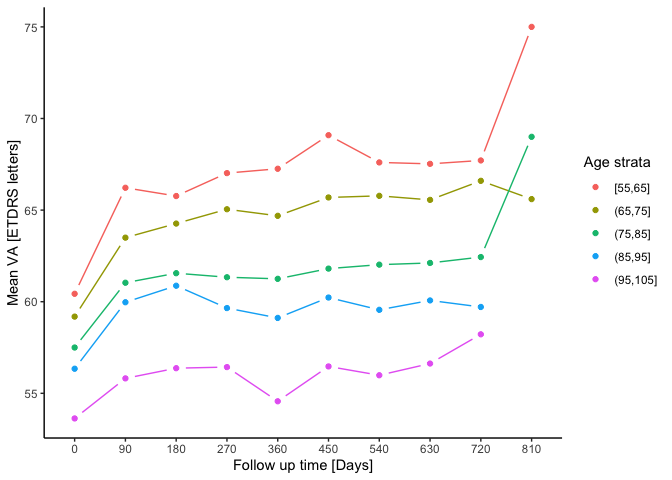
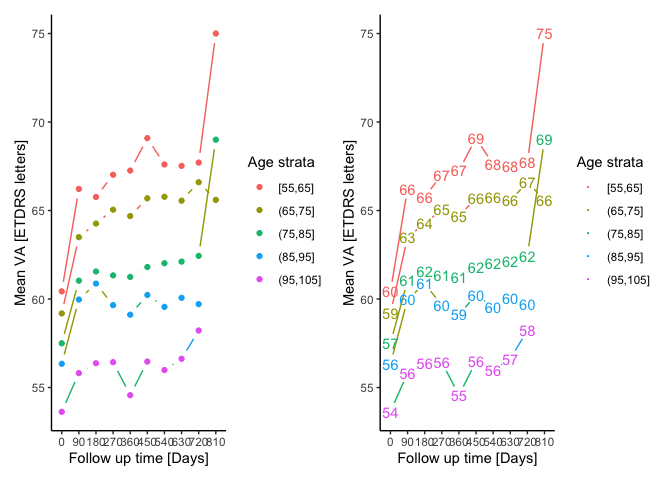
d

diff --git a/README.md b/README.md
@@ -135,6 +135,7 @@ A base plot type = “b” equivalent for ggplot. Works also with text\!
 ``` r
 library(ggplot2)
 library(dplyr)
+library(patchwork)
 # data preparation
 amd_aggr <-
   amd %>%
@@ -150,20 +151,15 @@ p <-
     theme_classic() +
     labs(x = "Follow up time [Days]", y = "Mean VA [ETDRS letters]", color = "Age strata")
 
-p +
-  geom_trail(aes(group = age_cut10))
+p1 <- p + geom_trail(aes(group = age_cut10))
+
+p2 <- p + geom_trail(aes(group = age_cut10), size = 0) +
+          geom_text(aes(label = round(mean_va, 0)), show.legend = FALSE)
+
+p1 + p2
 ```
 
 <img src="README-trail-1.png" width="45%" />
-
-``` r
-
-p +
-  geom_trail(aes(group = age_cut10), size = 0) +
-  geom_text(aes(label = round(mean_va, 0)), show.legend = FALSE)
-```
-
-<img src="README-trail-2.png" width="45%" />
 
 # References
 
